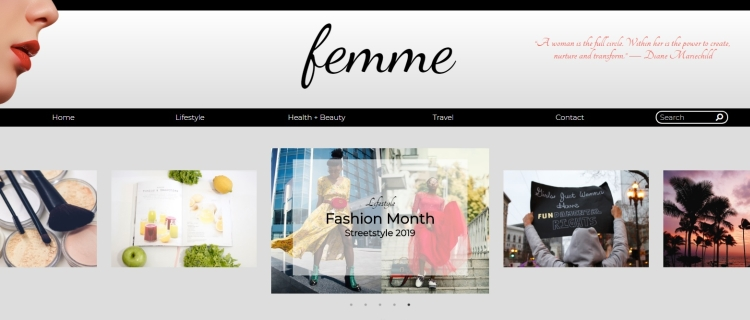
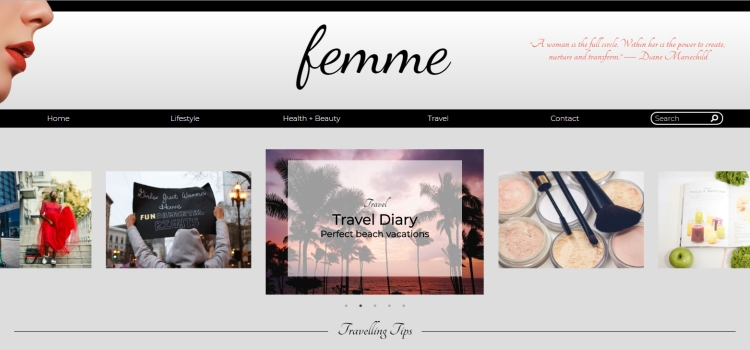
Added takeoff vacations projects and rearranged projects

diff --git a/index.html b/index.html
@@ -95,29 +95,28 @@
           </div>
         </div>
 
-        <!-- Tic-Tac-Toe Project -->
+        <!-- Takeoff Vacations Project -->
 
         <div class="project-container">
-          <img src="assets/images/tictactoe.jpg" alt="tictactoe game project">
+          <img src="assets/images/takeoff-vacations.jpg" alt="takeoff vacations project">
           <div class="project-description">
-            <h4>TIC-TAC-TOE
+            <h4>TAKEOFF
               <span>
-                <a href="https://github.com/mikesuchor/FCC-TicTacToe">
+                <a href="https://github.com/mikesuchor/takeoff-vacations">
                   <i class="fab fa-github" title="Github"></i>
                   SOURCE
                 </a>
-                <a href="https://codepen.io/mikesuchor/full/eEzmvd">
+                <a href="https://mikesuchor.github.io/takeoff-vacations/">
                   <i class="fab fa-codepen" title="Codepen"></i>
                   VIEW
                 </a>
               </span>
             </h4>
-            <p>The classic game of X's and O's, get 3 in a row. Can you beat the computer?</p>
-            <p>Built with HTML, CSS, JavaScript.</p>
+            <p>Travel booking website concept for booking flights, tours, and vacations.</p>
+            <p>Built with HTML, CSS.</p>
             <div class="project-icons">
               <i class="fab fa-html5"></i>
               <i class="fab fa-css3-alt"></i>
-              <i class="fab fa-js"></i>
             </div>
           </div>
         </div>
@@ -149,6 +148,33 @@
           </div>
         </div>
 
+        <!-- Tic-Tac-Toe Project -->
+
+        <div class="project-container">
+          <img src="assets/images/tictactoe.jpg" alt="tictactoe game project">
+          <div class="project-description">
+            <h4>TIC-TAC-TOE
+              <span>
+                <a href="https://github.com/mikesuchor/FCC-TicTacToe">
+                  <i class="fab fa-github" title="Github"></i>
+                  SOURCE
+                </a>
+                <a href="https://codepen.io/mikesuchor/full/eEzmvd">
+                  <i class="fab fa-codepen" title="Codepen"></i>
+                  VIEW
+                </a>
+              </span>
+            </h4>
+            <p>The classic game of X's and O's, get 3 in a row. Can you beat the computer?</p>
+            <p>Built with HTML, CSS, JavaScript.</p>
+            <div class="project-icons">
+              <i class="fab fa-html5"></i>
+              <i class="fab fa-css3-alt"></i>
+              <i class="fab fa-js"></i>
+            </div>
+          </div>
+        </div>
+      
         <!-- Simon Game Project -->
 
         <div class="project-container">
@@ -167,33 +193,6 @@
               </span>
             </h4>
             <p>An electronic game of memory skill, played by repeating a series of tones and lights.</p>
-            <p>Built with HTML, CSS, JavaScript.</p>
-            <div class="project-icons">
-              <i class="fab fa-html5"></i>
-              <i class="fab fa-css3-alt"></i>
-              <i class="fab fa-js"></i>
-            </div>
-          </div>
-        </div>
-
-        <!-- Integreat Project -->
-
-        <div class="project-container">
-          <img src="assets/images/mountains-sm.jpg" alt="integreat project">
-          <div class="project-description">
-            <h4>INTEGREAT
-              <span>
-                <a href="#">
-                  <i class="fab fa-github" title="Github"></i>
-                  SOURCE
-                </a>
-                <a href="#">
-                  <i class="fab fa-codepen" title="Codepen"></i>
-                  VIEW
-                </a>
-              </span>
-            </h4>
-            <p>Technology business website concept built with the Client's design and collaboration.</p>
             <p>Built with HTML, CSS, JavaScript.</p>
             <div class="project-icons">
               <i class="fab fa-html5"></i>
